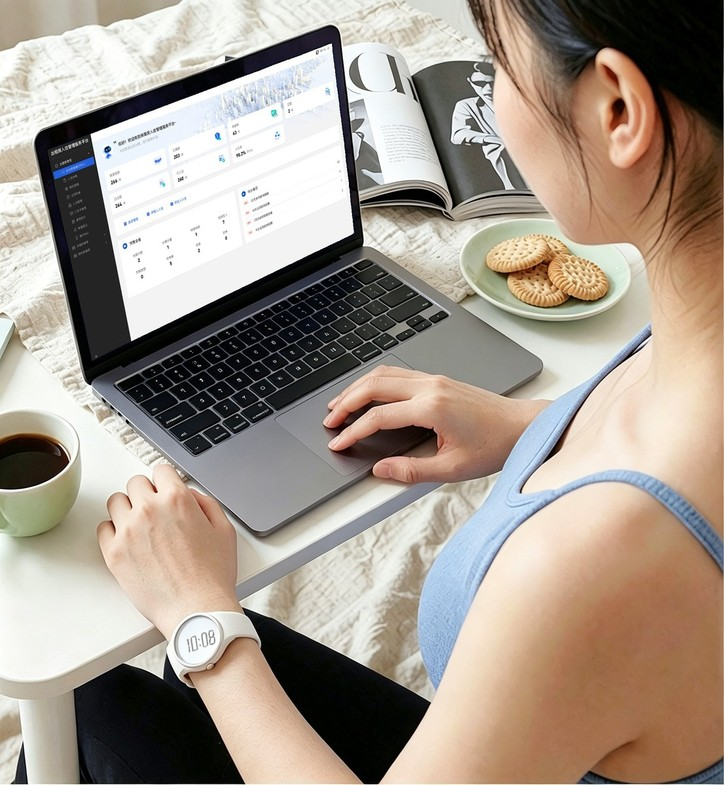
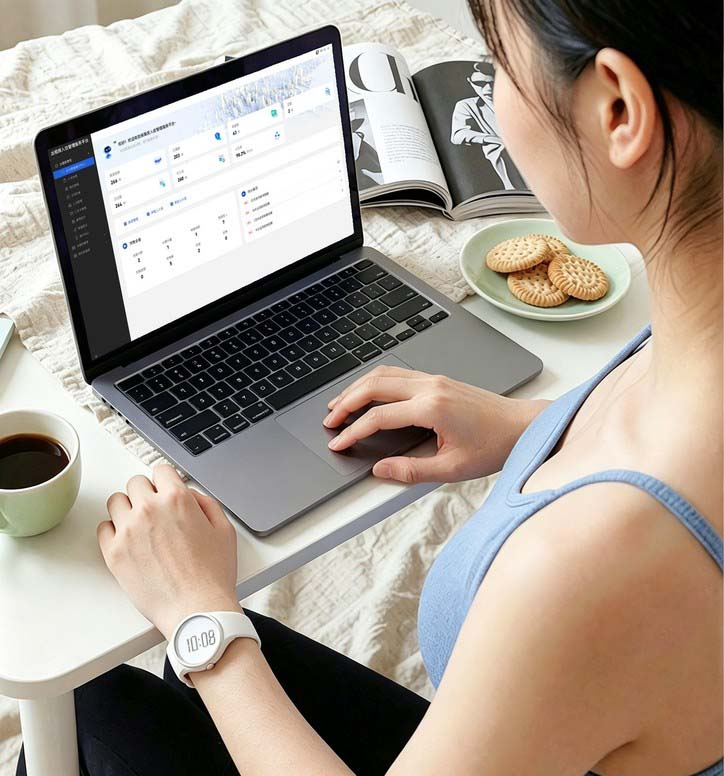
2

diff --git a/portfolio/cases/_shared/components.css b/portfolio/cases/_shared/components.css
@@ -400,6 +400,15 @@
   inset: 0;
 }
 
+/* 复用瀑布流(截图墙同款)图片鼠标经过放大规则：悬停时图片放大到 1.04，
+   容器 overflow:hidden 自动裁切。作用域排除带 data-focus 的图，避免与焦点系统内联 transform 冲突 */
+.block-img-placeholder img:not([data-focus]) {
+  transition: transform var(--transition-base);
+}
+.block-img-placeholder:hover img:not([data-focus]) {
+  transform: scale(1.04);
+}
+
 .block-img-placeholder::before {
   content: '';
   position: absolute;
